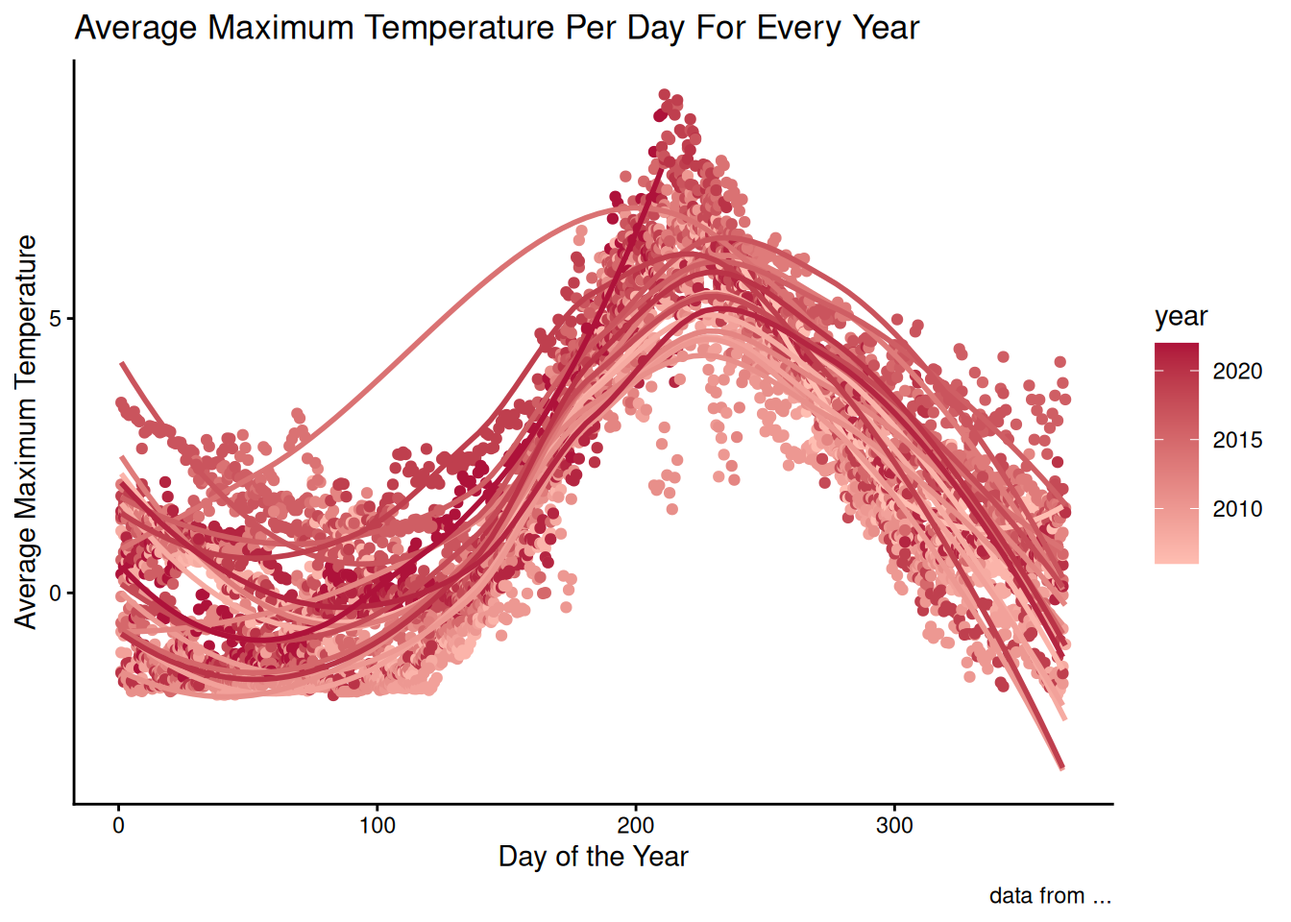
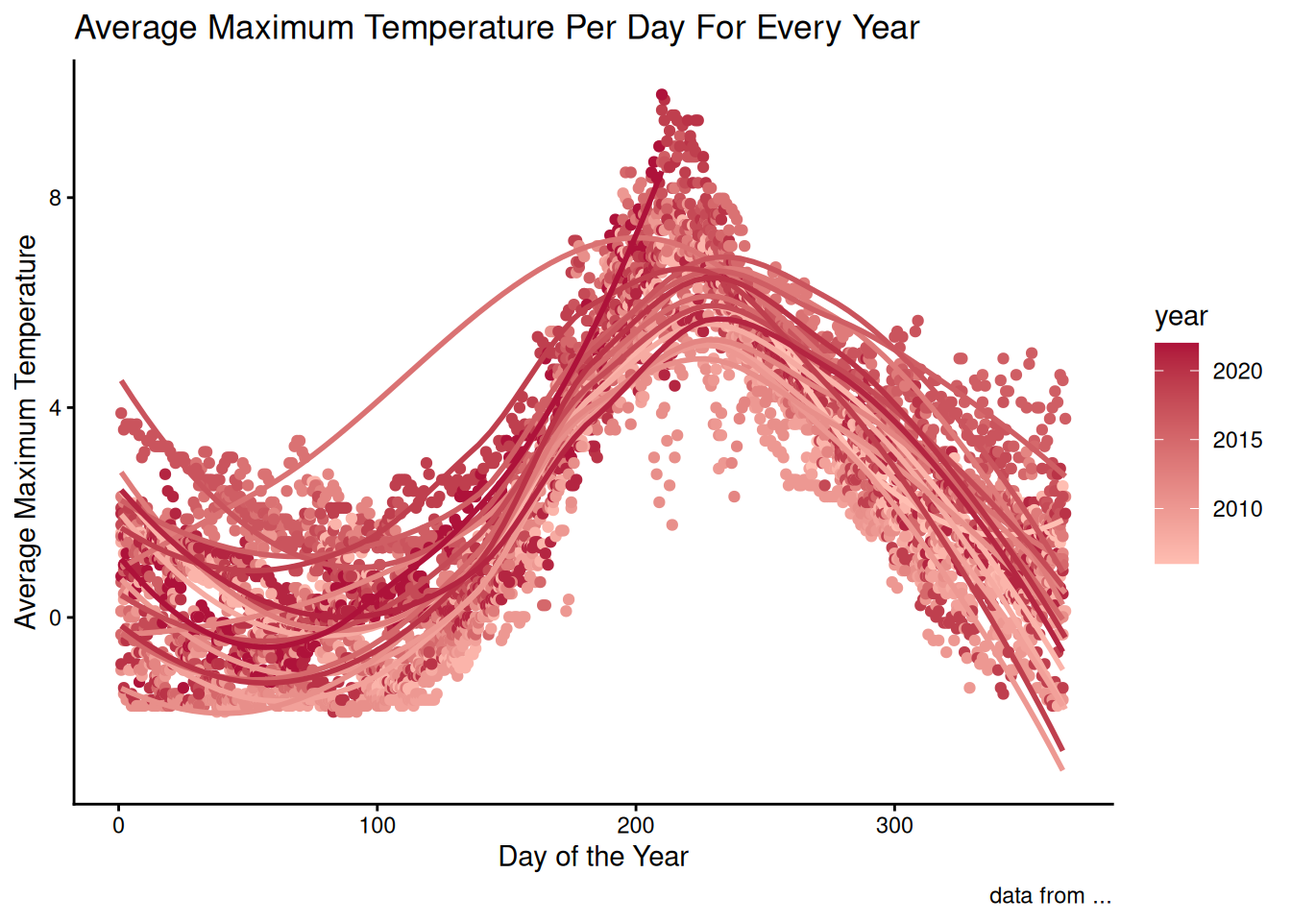
test

Changed region(s): [[0.0312, 0.0938, 0.8438, 0.8438], [0.0312, 0.1875, 0.0625, 0.2188]]

diff --git a/docs/posts/my_first_post/index.html b/docs/posts/my_first_post/index.html
@@ -222,69 +222,55 @@ pre > code.sourceCode > span > a:first-child::before { text-decoration: underlin
 <span id="cb3-9"><a href="#cb3-9" aria-hidden="true" tabindex="-1"></a>  <span class="fu">group_by</span>(Date) <span class="sc">|&gt;</span></span>
 <span id="cb3-10"><a href="#cb3-10" aria-hidden="true" tabindex="-1"></a>  <span class="fu">summarise</span>(</span>
 <span id="cb3-11"><a href="#cb3-11" aria-hidden="true" tabindex="-1"></a>    <span class="at">mean_temp =</span> <span class="fu">mean</span>(Temperature_C, <span class="at">na.rm =</span> <span class="cn">TRUE</span>),</span>
-<span id="cb3-12"><a href="#cb3-12" aria-hidden="true" tabindex="-1"></a>    <span class="co"># Max and min can happen here</span></span>
-<span id="cb3-13"><a href="#cb3-13" aria-hidden="true" tabindex="-1"></a>    <span class="at">min_temp =</span> <span class="fu">min</span>(mean_temp),</span>
-<span id="cb3-14"><a href="#cb3-14" aria-hidden="true" tabindex="-1"></a>    <span class="at">max_temp =</span> <span class="fu">max</span>(mean_temp)</span>
-<span id="cb3-15"><a href="#cb3-15" aria-hidden="true" tabindex="-1"></a>  ) </span>
-<span id="cb3-16"><a href="#cb3-16" aria-hidden="true" tabindex="-1"></a></span>
+<span id="cb3-12"><a href="#cb3-12" aria-hidden="true" tabindex="-1"></a>    <span class="at">min_temp =</span> <span class="fu">min</span>(Temperature_C),</span>
+<span id="cb3-13"><a href="#cb3-13" aria-hidden="true" tabindex="-1"></a>    <span class="at">max_temp =</span> <span class="fu">max</span>(Temperature_C)</span>
+<span id="cb3-14"><a href="#cb3-14" aria-hidden="true" tabindex="-1"></a>  ) </span>
+<span id="cb3-15"><a href="#cb3-15" aria-hidden="true" tabindex="-1"></a></span>
+<span id="cb3-16"><a href="#cb3-16" aria-hidden="true" tabindex="-1"></a>shallow_temps  <span class="ot">&lt;-</span> <span class="cn">NULL</span></span>
 <span id="cb3-17"><a href="#cb3-17" aria-hidden="true" tabindex="-1"></a></span>
-<span id="cb3-18"><a href="#cb3-18" aria-hidden="true" tabindex="-1"></a>shallow_temps  <span class="ot">&lt;-</span> <span class="cn">NULL</span></span>
-<span id="cb3-19"><a href="#cb3-19" aria-hidden="true" tabindex="-1"></a></span>
-<span id="cb3-20"><a href="#cb3-20" aria-hidden="true" tabindex="-1"></a></span>
-<span id="cb3-21"><a href="#cb3-21" aria-hidden="true" tabindex="-1"></a>daily_deep_temps <span class="ot">&lt;-</span> deep_temps <span class="sc">|&gt;</span></span>
-<span id="cb3-22"><a href="#cb3-22" aria-hidden="true" tabindex="-1"></a>  <span class="fu">group_by</span>(Date) <span class="sc">|&gt;</span></span>
-<span id="cb3-23"><a href="#cb3-23" aria-hidden="true" tabindex="-1"></a>  <span class="fu">summarise</span>(</span>
-<span id="cb3-24"><a href="#cb3-24" aria-hidden="true" tabindex="-1"></a>    <span class="at">mean_temp =</span> <span class="fu">mean</span>(Temperature_C, <span class="at">na.rm =</span> <span class="cn">TRUE</span>),</span>
-<span id="cb3-25"><a href="#cb3-25" aria-hidden="true" tabindex="-1"></a>    <span class="co"># min and max will go here eventually</span></span>
-<span id="cb3-26"><a href="#cb3-26" aria-hidden="true" tabindex="-1"></a>    <span class="at">min_temp_deep =</span> <span class="fu">min</span>(deep_temps<span class="sc">$</span>mean_temp),</span>
-<span id="cb3-27"><a href="#cb3-27" aria-hidden="true" tabindex="-1"></a>    <span class="at">max_temp_deep =</span> <span class="fu">max</span>(deep_temps<span class="sc">$</span>mean_temp)</span>
-<span id="cb3-28"><a href="#cb3-28" aria-hidden="true" tabindex="-1"></a>  )</span></code></pre></div><button title="Copy to Clipboard" class="code-copy-button"><i class="bi"></i></button></div>
-<div class="cell-output cell-output-stderr">
-<pre><code>Warning: There were 11324 warnings in `summarise()`.
-The first warning was:
-ℹ In argument: `min_temp_deep = min(deep_temps$mean_temp)`.
-ℹ In group 1: `Date = "01/01/2007"`.
-Caused by warning in `min()`:
-! no non-missing arguments to min; returning Inf
-ℹ Run `dplyr::last_dplyr_warnings()` to see the 11323 remaining warnings.</code></pre>
-</div>
-<div class="code-copy-outer-scaffold"><div class="sourceCode cell-code" id="cb5"><pre class="sourceCode r code-with-copy"><code class="sourceCode r"><span id="cb5-1"><a href="#cb5-1" aria-hidden="true" tabindex="-1"></a>deep_temps <span class="ot">&lt;-</span> <span class="cn">NULL</span></span>
-<span id="cb5-2"><a href="#cb5-2" aria-hidden="true" tabindex="-1"></a></span>
-<span id="cb5-3"><a href="#cb5-3" aria-hidden="true" tabindex="-1"></a></span>
-<span id="cb5-4"><a href="#cb5-4" aria-hidden="true" tabindex="-1"></a>daily_deep_temps<span class="ot">&lt;-</span> daily_deep_temps <span class="sc">|&gt;</span></span>
-<span id="cb5-5"><a href="#cb5-5" aria-hidden="true" tabindex="-1"></a>  <span class="fu">mutate</span>(</span>
-<span id="cb5-6"><a href="#cb5-6" aria-hidden="true" tabindex="-1"></a>    <span class="at">year =</span> <span class="fu">year</span>(<span class="fu">dmy</span>(Date)),</span>
-<span id="cb5-7"><a href="#cb5-7" aria-hidden="true" tabindex="-1"></a>    <span class="at">month =</span> <span class="fu">month</span>(<span class="fu">dmy</span>(Date)),</span>
-<span id="cb5-8"><a href="#cb5-8" aria-hidden="true" tabindex="-1"></a>    <span class="at">day =</span> <span class="fu">day</span>(<span class="fu">dmy</span>(Date)),</span>
-<span id="cb5-9"><a href="#cb5-9" aria-hidden="true" tabindex="-1"></a>    <span class="at">day_of_year =</span> <span class="fu">yday</span>(<span class="fu">dmy</span>(Date)))</span>
-<span id="cb5-10"><a href="#cb5-10" aria-hidden="true" tabindex="-1"></a></span>
-<span id="cb5-11"><a href="#cb5-11" aria-hidden="true" tabindex="-1"></a></span>
-<span id="cb5-12"><a href="#cb5-12" aria-hidden="true" tabindex="-1"></a>daily_shallow_temps<span class="ot">&lt;-</span> daily_shallow_temps <span class="sc">|&gt;</span></span>
-<span id="cb5-13"><a href="#cb5-13" aria-hidden="true" tabindex="-1"></a>  <span class="fu">mutate</span>(</span>
-<span id="cb5-14"><a href="#cb5-14" aria-hidden="true" tabindex="-1"></a>    <span class="at">year =</span> <span class="fu">year</span>(<span class="fu">dmy</span>(Date)),</span>
-<span id="cb5-15"><a href="#cb5-15" aria-hidden="true" tabindex="-1"></a>    <span class="at">month =</span> <span class="fu">month</span>(<span class="fu">dmy</span>(Date)),</span>
-<span id="cb5-16"><a href="#cb5-16" aria-hidden="true" tabindex="-1"></a>    <span class="at">day =</span> <span class="fu">day</span>(<span class="fu">dmy</span>(Date)),</span>
-<span id="cb5-17"><a href="#cb5-17" aria-hidden="true" tabindex="-1"></a>    <span class="at">day_of_year =</span> <span class="fu">yday</span>(<span class="fu">dmy</span>(Date))</span>
-<span id="cb5-18"><a href="#cb5-18" aria-hidden="true" tabindex="-1"></a>  )</span>
-<span id="cb5-19"><a href="#cb5-19" aria-hidden="true" tabindex="-1"></a></span>
-<span id="cb5-20"><a href="#cb5-20" aria-hidden="true" tabindex="-1"></a><span class="fu">ggplot</span>(</span>
-<span id="cb5-21"><a href="#cb5-21" aria-hidden="true" tabindex="-1"></a>  <span class="at">data =</span> daily_shallow_temps,</span>
-<span id="cb5-22"><a href="#cb5-22" aria-hidden="true" tabindex="-1"></a>  <span class="at">mapping =</span> <span class="fu">aes</span>(</span>
-<span id="cb5-23"><a href="#cb5-23" aria-hidden="true" tabindex="-1"></a>    <span class="at">y =</span> mean_temp, </span>
-<span id="cb5-24"><a href="#cb5-24" aria-hidden="true" tabindex="-1"></a>    <span class="at">x =</span> day_of_year, </span>
-<span id="cb5-25"><a href="#cb5-25" aria-hidden="true" tabindex="-1"></a>    <span class="at">group =</span> year, </span>
-<span id="cb5-26"><a href="#cb5-26" aria-hidden="true" tabindex="-1"></a>    <span class="at">color =</span> year</span>
-<span id="cb5-27"><a href="#cb5-27" aria-hidden="true" tabindex="-1"></a>    )</span>
-<span id="cb5-28"><a href="#cb5-28" aria-hidden="true" tabindex="-1"></a>  ) <span class="sc">+</span> </span>
-<span id="cb5-29"><a href="#cb5-29" aria-hidden="true" tabindex="-1"></a>    <span class="fu">geom_point</span>(<span class="at">alpha =</span> <span class="fl">0.25</span>) <span class="sc">+</span> </span>
-<span id="cb5-30"><a href="#cb5-30" aria-hidden="true" tabindex="-1"></a>    <span class="fu">geom_smooth</span>(<span class="at">se =</span> <span class="cn">FALSE</span>) <span class="sc">+</span> </span>
-<span id="cb5-31"><a href="#cb5-31" aria-hidden="true" tabindex="-1"></a>  <span class="fu">labs</span>(</span>
-<span id="cb5-32"><a href="#cb5-32" aria-hidden="true" tabindex="-1"></a>    <span class="at">x =</span> <span class="st">"Day of the Year"</span>,</span>
-<span id="cb5-33"><a href="#cb5-33" aria-hidden="true" tabindex="-1"></a>    <span class="at">y =</span> <span class="st">"Average Temperature"</span>,</span>
-<span id="cb5-34"><a href="#cb5-34" aria-hidden="true" tabindex="-1"></a>    <span class="at">title =</span> <span class="st">"Average Temperature Per Day For Every Year"</span>,</span>
-<span id="cb5-35"><a href="#cb5-35" aria-hidden="true" tabindex="-1"></a>    <span class="at">caption =</span> <span class="st">"data from ..."</span></span>
-<span id="cb5-36"><a href="#cb5-36" aria-hidden="true" tabindex="-1"></a>   ) <span class="sc">+</span> <span class="fu">scale_colour_continuous</span>(<span class="at">low =</span> <span class="st">"#FFBEB2"</span>, <span class="at">high =</span> <span class="st">"#AE123A"</span>) <span class="sc">+</span></span>
-<span id="cb5-37"><a href="#cb5-37" aria-hidden="true" tabindex="-1"></a>  <span class="fu">theme_classic</span>()</span></code></pre></div><button title="Copy to Clipboard" class="code-copy-button"><i class="bi"></i></button></div>
+<span id="cb3-18"><a href="#cb3-18" aria-hidden="true" tabindex="-1"></a>daily_deep_temps <span class="ot">&lt;-</span> deep_temps <span class="sc">|&gt;</span></span>
+<span id="cb3-19"><a href="#cb3-19" aria-hidden="true" tabindex="-1"></a>  <span class="fu">group_by</span>(Date) <span class="sc">|&gt;</span></span>
+<span id="cb3-20"><a href="#cb3-20" aria-hidden="true" tabindex="-1"></a>  <span class="fu">summarise</span>(</span>
+<span id="cb3-21"><a href="#cb3-21" aria-hidden="true" tabindex="-1"></a>    <span class="at">mean_temp =</span> <span class="fu">mean</span>(Temperature_C, <span class="at">na.rm =</span> <span class="cn">TRUE</span>),</span>
+<span id="cb3-22"><a href="#cb3-22" aria-hidden="true" tabindex="-1"></a>    <span class="at">min_temp_deep =</span> <span class="fu">min</span>(Temperature_C),</span>
+<span id="cb3-23"><a href="#cb3-23" aria-hidden="true" tabindex="-1"></a>    <span class="at">max_temp_deep =</span> <span class="fu">max</span>(Temperature_C)</span>
+<span id="cb3-24"><a href="#cb3-24" aria-hidden="true" tabindex="-1"></a>  )</span>
+<span id="cb3-25"><a href="#cb3-25" aria-hidden="true" tabindex="-1"></a>deep_temps <span class="ot">&lt;-</span> <span class="cn">NULL</span></span>
+<span id="cb3-26"><a href="#cb3-26" aria-hidden="true" tabindex="-1"></a></span>
+<span id="cb3-27"><a href="#cb3-27" aria-hidden="true" tabindex="-1"></a>daily_deep_temps<span class="ot">&lt;-</span> daily_deep_temps <span class="sc">|&gt;</span></span>
+<span id="cb3-28"><a href="#cb3-28" aria-hidden="true" tabindex="-1"></a>  <span class="fu">mutate</span>(</span>
+<span id="cb3-29"><a href="#cb3-29" aria-hidden="true" tabindex="-1"></a>    <span class="at">year =</span> <span class="fu">year</span>(<span class="fu">dmy</span>(Date)),</span>
+<span id="cb3-30"><a href="#cb3-30" aria-hidden="true" tabindex="-1"></a>    <span class="at">month =</span> <span class="fu">month</span>(<span class="fu">dmy</span>(Date)),</span>
+<span id="cb3-31"><a href="#cb3-31" aria-hidden="true" tabindex="-1"></a>    <span class="at">day =</span> <span class="fu">day</span>(<span class="fu">dmy</span>(Date)),</span>
+<span id="cb3-32"><a href="#cb3-32" aria-hidden="true" tabindex="-1"></a>    <span class="at">day_of_year =</span> <span class="fu">yday</span>(<span class="fu">dmy</span>(Date)))</span>
+<span id="cb3-33"><a href="#cb3-33" aria-hidden="true" tabindex="-1"></a></span>
+<span id="cb3-34"><a href="#cb3-34" aria-hidden="true" tabindex="-1"></a></span>
+<span id="cb3-35"><a href="#cb3-35" aria-hidden="true" tabindex="-1"></a>daily_shallow_temps<span class="ot">&lt;-</span> daily_shallow_temps <span class="sc">|&gt;</span></span>
+<span id="cb3-36"><a href="#cb3-36" aria-hidden="true" tabindex="-1"></a>  <span class="fu">mutate</span>(</span>
+<span id="cb3-37"><a href="#cb3-37" aria-hidden="true" tabindex="-1"></a>    <span class="at">year =</span> <span class="fu">year</span>(<span class="fu">dmy</span>(Date)),</span>
+<span id="cb3-38"><a href="#cb3-38" aria-hidden="true" tabindex="-1"></a>    <span class="at">month =</span> <span class="fu">month</span>(<span class="fu">dmy</span>(Date)),</span>
+<span id="cb3-39"><a href="#cb3-39" aria-hidden="true" tabindex="-1"></a>    <span class="at">day =</span> <span class="fu">day</span>(<span class="fu">dmy</span>(Date)),</span>
+<span id="cb3-40"><a href="#cb3-40" aria-hidden="true" tabindex="-1"></a>    <span class="at">day_of_year =</span> <span class="fu">yday</span>(<span class="fu">dmy</span>(Date))</span>
+<span id="cb3-41"><a href="#cb3-41" aria-hidden="true" tabindex="-1"></a>  )</span>
+<span id="cb3-42"><a href="#cb3-42" aria-hidden="true" tabindex="-1"></a></span>
+<span id="cb3-43"><a href="#cb3-43" aria-hidden="true" tabindex="-1"></a><span class="fu">ggplot</span>(</span>
+<span id="cb3-44"><a href="#cb3-44" aria-hidden="true" tabindex="-1"></a>  <span class="at">data =</span> daily_shallow_temps,</span>
+<span id="cb3-45"><a href="#cb3-45" aria-hidden="true" tabindex="-1"></a>  <span class="at">mapping =</span> <span class="fu">aes</span>(</span>
+<span id="cb3-46"><a href="#cb3-46" aria-hidden="true" tabindex="-1"></a>    <span class="at">y =</span> mean_temp, </span>
+<span id="cb3-47"><a href="#cb3-47" aria-hidden="true" tabindex="-1"></a>    <span class="at">x =</span> day_of_year, </span>
+<span id="cb3-48"><a href="#cb3-48" aria-hidden="true" tabindex="-1"></a>    <span class="at">group =</span> year, </span>
+<span id="cb3-49"><a href="#cb3-49" aria-hidden="true" tabindex="-1"></a>    <span class="at">color =</span> year</span>
+<span id="cb3-50"><a href="#cb3-50" aria-hidden="true" tabindex="-1"></a>    )</span>
+<span id="cb3-51"><a href="#cb3-51" aria-hidden="true" tabindex="-1"></a>  ) <span class="sc">+</span> </span>
+<span id="cb3-52"><a href="#cb3-52" aria-hidden="true" tabindex="-1"></a>    <span class="fu">geom_point</span>(<span class="at">alpha =</span> <span class="fl">0.25</span>) <span class="sc">+</span> </span>
+<span id="cb3-53"><a href="#cb3-53" aria-hidden="true" tabindex="-1"></a>    <span class="fu">geom_smooth</span>(<span class="at">se =</span> <span class="cn">FALSE</span>) <span class="sc">+</span> </span>
+<span id="cb3-54"><a href="#cb3-54" aria-hidden="true" tabindex="-1"></a>  <span class="fu">labs</span>(</span>
+<span id="cb3-55"><a href="#cb3-55" aria-hidden="true" tabindex="-1"></a>    <span class="at">x =</span> <span class="st">"Day of the Year"</span>,</span>
+<span id="cb3-56"><a href="#cb3-56" aria-hidden="true" tabindex="-1"></a>    <span class="at">y =</span> <span class="st">"Average Temperature"</span>,</span>
+<span id="cb3-57"><a href="#cb3-57" aria-hidden="true" tabindex="-1"></a>    <span class="at">title =</span> <span class="st">"Average Temperature Per Day For Every Year"</span>,</span>
+<span id="cb3-58"><a href="#cb3-58" aria-hidden="true" tabindex="-1"></a>    <span class="at">caption =</span> <span class="st">"data from ..."</span></span>
+<span id="cb3-59"><a href="#cb3-59" aria-hidden="true" tabindex="-1"></a>   ) <span class="sc">+</span> <span class="fu">scale_colour_continuous</span>(<span class="at">low =</span> <span class="st">"#FFBEB2"</span>, <span class="at">high =</span> <span class="st">"#AE123A"</span>) <span class="sc">+</span></span>
+<span id="cb3-60"><a href="#cb3-60" aria-hidden="true" tabindex="-1"></a>  <span class="fu">theme_classic</span>()</span></code></pre></div><button title="Copy to Clipboard" class="code-copy-button"><i class="bi"></i></button></div>
 <div class="cell-output cell-output-stderr">
 <pre><code>`geom_smooth()` using method = 'loess' and formula = 'y ~ x'</code></pre>
 </div>
@@ -297,23 +283,23 @@ Caused by warning in `min()`:
 </div>
 </div>
 <div class="cell">
-<div class="code-copy-outer-scaffold"><div class="sourceCode cell-code" id="cb7"><pre class="sourceCode r code-with-copy"><code class="sourceCode r"><span id="cb7-1"><a href="#cb7-1" aria-hidden="true" tabindex="-1"></a><span class="co">#Minimum Graph</span></span>
-<span id="cb7-2"><a href="#cb7-2" aria-hidden="true" tabindex="-1"></a></span>
-<span id="cb7-3"><a href="#cb7-3" aria-hidden="true" tabindex="-1"></a><span class="fu">ggplot</span>(<span class="at">data =</span> daily_shallow_temps,</span>
-<span id="cb7-4"><a href="#cb7-4" aria-hidden="true" tabindex="-1"></a>       <span class="at">mapping =</span> <span class="fu">aes</span>(</span>
-<span id="cb7-5"><a href="#cb7-5" aria-hidden="true" tabindex="-1"></a>         <span class="at">x =</span> day_of_year,</span>
-<span id="cb7-6"><a href="#cb7-6" aria-hidden="true" tabindex="-1"></a>         <span class="at">y =</span> min_temp,</span>
-<span id="cb7-7"><a href="#cb7-7" aria-hidden="true" tabindex="-1"></a>         <span class="at">group =</span> year,</span>
-<span id="cb7-8"><a href="#cb7-8" aria-hidden="true" tabindex="-1"></a>         <span class="at">color =</span> year)</span>
-<span id="cb7-9"><a href="#cb7-9" aria-hidden="true" tabindex="-1"></a>       ) <span class="sc">+</span><span class="fu">geom_point</span>() <span class="sc">+</span></span>
-<span id="cb7-10"><a href="#cb7-10" aria-hidden="true" tabindex="-1"></a>      <span class="fu">geom_smooth</span>(<span class="at">se =</span> <span class="cn">FALSE</span>)<span class="sc">+</span></span>
-<span id="cb7-11"><a href="#cb7-11" aria-hidden="true" tabindex="-1"></a>    <span class="fu">labs</span>(</span>
-<span id="cb7-12"><a href="#cb7-12" aria-hidden="true" tabindex="-1"></a>       <span class="at">x =</span> <span class="st">"Day of the Year"</span>,</span>
-<span id="cb7-13"><a href="#cb7-13" aria-hidden="true" tabindex="-1"></a>       <span class="at">y =</span> <span class="st">"Average Minimum Temperature"</span>,</span>
-<span id="cb7-14"><a href="#cb7-14" aria-hidden="true" tabindex="-1"></a>       <span class="at">title =</span> <span class="st">"Average Minimum Temperature Per Day For Every Year"</span>,</span>
-<span id="cb7-15"><a href="#cb7-15" aria-hidden="true" tabindex="-1"></a>      <span class="at">caption =</span> <span class="st">"data from ..."</span></span>
-<span id="cb7-16"><a href="#cb7-16" aria-hidden="true" tabindex="-1"></a>    )  <span class="sc">+</span> <span class="fu">scale_colour_continuous</span>(<span class="at">low =</span> <span class="st">"#FFBEB2"</span>, <span class="at">high =</span> <span class="st">"#AE123A"</span>) <span class="sc">+</span></span>
-<span id="cb7-17"><a href="#cb7-17" aria-hidden="true" tabindex="-1"></a>  <span class="fu">theme_classic</span>()</span></code></pre></div><button title="Copy to Clipboard" class="code-copy-button"><i class="bi"></i></button></div>
+<div class="code-copy-outer-scaffold"><div class="sourceCode cell-code" id="cb5"><pre class="sourceCode r code-with-copy"><code class="sourceCode r"><span id="cb5-1"><a href="#cb5-1" aria-hidden="true" tabindex="-1"></a><span class="co">#Minimum Graph</span></span>
+<span id="cb5-2"><a href="#cb5-2" aria-hidden="true" tabindex="-1"></a></span>
+<span id="cb5-3"><a href="#cb5-3" aria-hidden="true" tabindex="-1"></a><span class="fu">ggplot</span>(<span class="at">data =</span> daily_shallow_temps,</span>
+<span id="cb5-4"><a href="#cb5-4" aria-hidden="true" tabindex="-1"></a>       <span class="at">mapping =</span> <span class="fu">aes</span>(</span>
+<span id="cb5-5"><a href="#cb5-5" aria-hidden="true" tabindex="-1"></a>         <span class="at">x =</span> day_of_year,</span>
+<span id="cb5-6"><a href="#cb5-6" aria-hidden="true" tabindex="-1"></a>         <span class="at">y =</span> min_temp,</span>
+<span id="cb5-7"><a href="#cb5-7" aria-hidden="true" tabindex="-1"></a>         <span class="at">group =</span> year,</span>
+<span id="cb5-8"><a href="#cb5-8" aria-hidden="true" tabindex="-1"></a>         <span class="at">color =</span> year)</span>
+<span id="cb5-9"><a href="#cb5-9" aria-hidden="true" tabindex="-1"></a>       ) <span class="sc">+</span><span class="fu">geom_point</span>() <span class="sc">+</span></span>
+<span id="cb5-10"><a href="#cb5-10" aria-hidden="true" tabindex="-1"></a>      <span class="fu">geom_smooth</span>(<span class="at">se =</span> <span class="cn">FALSE</span>)<span class="sc">+</span></span>
+<span id="cb5-11"><a href="#cb5-11" aria-hidden="true" tabindex="-1"></a>    <span class="fu">labs</span>(</span>
+<span id="cb5-12"><a href="#cb5-12" aria-hidden="true" tabindex="-1"></a>       <span class="at">x =</span> <span class="st">"Day of the Year"</span>,</span>
+<span id="cb5-13"><a href="#cb5-13" aria-hidden="true" tabindex="-1"></a>       <span class="at">y =</span> <span class="st">"Average Minimum Temperature"</span>,</span>
+<span id="cb5-14"><a href="#cb5-14" aria-hidden="true" tabindex="-1"></a>       <span class="at">title =</span> <span class="st">"Average Minimum Temperature Per Day For Every Year"</span>,</span>
+<span id="cb5-15"><a href="#cb5-15" aria-hidden="true" tabindex="-1"></a>      <span class="at">caption =</span> <span class="st">"data from ..."</span></span>
+<span id="cb5-16"><a href="#cb5-16" aria-hidden="true" tabindex="-1"></a>    )  <span class="sc">+</span> <span class="fu">scale_colour_continuous</span>(<span class="at">low =</span> <span class="st">"#FFBEB2"</span>, <span class="at">high =</span> <span class="st">"#AE123A"</span>) <span class="sc">+</span></span>
+<span id="cb5-17"><a href="#cb5-17" aria-hidden="true" tabindex="-1"></a>  <span class="fu">theme_classic</span>()</span></code></pre></div><button title="Copy to Clipboard" class="code-copy-button"><i class="bi"></i></button></div>
 <div class="cell-output cell-output-stderr">
 <pre><code>`geom_smooth()` using method = 'loess' and formula = 'y ~ x'</code></pre>
 </div>
@@ -326,23 +312,23 @@ Caused by warning in `min()`:
 </div>
 </div>
 <div class="cell">
-<div class="code-copy-outer-scaffold"><div class="sourceCode cell-code" id="cb9"><pre class="sourceCode r code-with-copy"><code class="sourceCode r"><span id="cb9-1"><a href="#cb9-1" aria-hidden="true" tabindex="-1"></a><span class="co">#Max Graph</span></span>
-<span id="cb9-2"><a href="#cb9-2" aria-hidden="true" tabindex="-1"></a></span>
-<span id="cb9-3"><a href="#cb9-3" aria-hidden="true" tabindex="-1"></a><span class="fu">ggplot</span>(<span class="at">data =</span> daily_shallow_temps,</span>
-<span id="cb9-4"><a href="#cb9-4" aria-hidden="true" tabindex="-1"></a>       <span class="at">mapping =</span> <span class="fu">aes</span>(</span>
-<span id="cb9-5"><a href="#cb9-5" aria-hidden="true" tabindex="-1"></a>         <span class="at">x =</span> day_of_year,</span>
-<span id="cb9-6"><a href="#cb9-6" aria-hidden="true" tabindex="-1"></a>         <span class="at">y =</span> max_temp,</span>
-<span id="cb9-7"><a href="#cb9-7" aria-hidden="true" tabindex="-1"></a>         <span class="at">group =</span> year,</span>
-<span id="cb9-8"><a href="#cb9-8" aria-hidden="true" tabindex="-1"></a>         <span class="at">color =</span> year)</span>
-<span id="cb9-9"><a href="#cb9-9" aria-hidden="true" tabindex="-1"></a>) <span class="sc">+</span><span class="fu">geom_point</span>() <span class="sc">+</span></span>
-<span id="cb9-10"><a href="#cb9-10" aria-hidden="true" tabindex="-1"></a>  <span class="fu">geom_smooth</span>(<span class="at">se =</span> <span class="cn">FALSE</span>)<span class="sc">+</span></span>
-<span id="cb9-11"><a href="#cb9-11" aria-hidden="true" tabindex="-1"></a>  <span class="fu">labs</span>(</span>
-<span id="cb9-12"><a href="#cb9-12" aria-hidden="true" tabindex="-1"></a>    <span class="at">x =</span> <span class="st">"Day of the Year"</span>,</span>
-<span id="cb9-13"><a href="#cb9-13" aria-hidden="true" tabindex="-1"></a>    <span class="at">y =</span> <span class="st">"Average Maximum Temperature"</span>,</span>
-<span id="cb9-14"><a href="#cb9-14" aria-hidden="true" tabindex="-1"></a>    <span class="at">title =</span> <span class="st">"Average Maximum Temperature Per Day For Every Year"</span>,</span>
-<span id="cb9-15"><a href="#cb9-15" aria-hidden="true" tabindex="-1"></a>    <span class="at">caption =</span> <span class="st">"data from ..."</span></span>
-<span id="cb9-16"><a href="#cb9-16" aria-hidden="true" tabindex="-1"></a>  )  <span class="sc">+</span> <span class="fu">scale_colour_continuous</span>(<span class="at">low =</span> <span class="st">"#FFBEB2"</span>, <span class="at">high =</span> <span class="st">"#AE123A"</span>) <span class="sc">+</span></span>
-<span id="cb9-17"><a href="#cb9-17" aria-hidden="true" tabindex="-1"></a>  <span class="fu">theme_classic</span>()</span></code></pre></div><button title="Copy to Clipboard" class="code-copy-button"><i class="bi"></i></button></div>
+<div class="code-copy-outer-scaffold"><div class="sourceCode cell-code" id="cb7"><pre class="sourceCode r code-with-copy"><code class="sourceCode r"><span id="cb7-1"><a href="#cb7-1" aria-hidden="true" tabindex="-1"></a><span class="co">#Max Graph</span></span>
+<span id="cb7-2"><a href="#cb7-2" aria-hidden="true" tabindex="-1"></a></span>
+<span id="cb7-3"><a href="#cb7-3" aria-hidden="true" tabindex="-1"></a><span class="fu">ggplot</span>(<span class="at">data =</span> daily_shallow_temps,</span>
+<span id="cb7-4"><a href="#cb7-4" aria-hidden="true" tabindex="-1"></a>       <span class="at">mapping =</span> <span class="fu">aes</span>(</span>
+<span id="cb7-5"><a href="#cb7-5" aria-hidden="true" tabindex="-1"></a>         <span class="at">x =</span> day_of_year,</span>
+<span id="cb7-6"><a href="#cb7-6" aria-hidden="true" tabindex="-1"></a>         <span class="at">y =</span> max_temp,</span>
+<span id="cb7-7"><a href="#cb7-7" aria-hidden="true" tabindex="-1"></a>         <span class="at">group =</span> year,</span>
+<span id="cb7-8"><a href="#cb7-8" aria-hidden="true" tabindex="-1"></a>         <span class="at">color =</span> year)</span>
+<span id="cb7-9"><a href="#cb7-9" aria-hidden="true" tabindex="-1"></a>) <span class="sc">+</span><span class="fu">geom_point</span>() <span class="sc">+</span></span>
+<span id="cb7-10"><a href="#cb7-10" aria-hidden="true" tabindex="-1"></a>  <span class="fu">geom_smooth</span>(<span class="at">se =</span> <span class="cn">FALSE</span>)<span class="sc">+</span></span>
+<span id="cb7-11"><a href="#cb7-11" aria-hidden="true" tabindex="-1"></a>  <span class="fu">labs</span>(</span>
+<span id="cb7-12"><a href="#cb7-12" aria-hidden="true" tabindex="-1"></a>    <span class="at">x =</span> <span class="st">"Day of the Year"</span>,</span>
+<span id="cb7-13"><a href="#cb7-13" aria-hidden="true" tabindex="-1"></a>    <span class="at">y =</span> <span class="st">"Average Maximum Temperature"</span>,</span>
+<span id="cb7-14"><a href="#cb7-14" aria-hidden="true" tabindex="-1"></a>    <span class="at">title =</span> <span class="st">"Average Maximum Temperature Per Day For Every Year"</span>,</span>
+<span id="cb7-15"><a href="#cb7-15" aria-hidden="true" tabindex="-1"></a>    <span class="at">caption =</span> <span class="st">"data from ..."</span></span>
+<span id="cb7-16"><a href="#cb7-16" aria-hidden="true" tabindex="-1"></a>  )  <span class="sc">+</span> <span class="fu">scale_colour_continuous</span>(<span class="at">low =</span> <span class="st">"#FFBEB2"</span>, <span class="at">high =</span> <span class="st">"#AE123A"</span>) <span class="sc">+</span></span>
+<span id="cb7-17"><a href="#cb7-17" aria-hidden="true" tabindex="-1"></a>  <span class="fu">theme_classic</span>()</span></code></pre></div><button title="Copy to Clipboard" class="code-copy-button"><i class="bi"></i></button></div>
 <div class="cell-output cell-output-stderr">
 <pre><code>`geom_smooth()` using method = 'loess' and formula = 'y ~ x'</code></pre>
 </div>
@@ -355,24 +341,24 @@ Caused by warning in `min()`:
 </div>
 </div>
 <div class="cell">
-<div class="code-copy-outer-scaffold"><div class="sourceCode cell-code" id="cb11"><pre class="sourceCode r code-with-copy"><code class="sourceCode r"><span id="cb11-1"><a href="#cb11-1" aria-hidden="true" tabindex="-1"></a><span class="fu">ggplot</span>(</span>
-<span id="cb11-2"><a href="#cb11-2" aria-hidden="true" tabindex="-1"></a>  <span class="at">data =</span> daily_deep_temps,</span>
-<span id="cb11-3"><a href="#cb11-3" aria-hidden="true" tabindex="-1"></a>  <span class="at">mapping =</span> <span class="fu">aes</span>(</span>
-<span id="cb11-4"><a href="#cb11-4" aria-hidden="true" tabindex="-1"></a>    <span class="at">y =</span> mean_temp, </span>
-<span id="cb11-5"><a href="#cb11-5" aria-hidden="true" tabindex="-1"></a>    <span class="at">x =</span> day_of_year, </span>
-<span id="cb11-6"><a href="#cb11-6" aria-hidden="true" tabindex="-1"></a>    <span class="at">group =</span> year, </span>
-<span id="cb11-7"><a href="#cb11-7" aria-hidden="true" tabindex="-1"></a>    <span class="at">color =</span> year</span>
-<span id="cb11-8"><a href="#cb11-8" aria-hidden="true" tabindex="-1"></a>  )</span>
-<span id="cb11-9"><a href="#cb11-9" aria-hidden="true" tabindex="-1"></a>) <span class="sc">+</span> </span>
-<span id="cb11-10"><a href="#cb11-10" aria-hidden="true" tabindex="-1"></a>  <span class="fu">geom_point</span>(<span class="at">alpha =</span> <span class="fl">0.25</span>) <span class="sc">+</span> </span>
-<span id="cb11-11"><a href="#cb11-11" aria-hidden="true" tabindex="-1"></a>  <span class="fu">geom_smooth</span>(<span class="at">se =</span> <span class="cn">FALSE</span>) <span class="sc">+</span> </span>
-<span id="cb11-12"><a href="#cb11-12" aria-hidden="true" tabindex="-1"></a>  <span class="fu">labs</span>(</span>
-<span id="cb11-13"><a href="#cb11-13" aria-hidden="true" tabindex="-1"></a>    <span class="at">x =</span> <span class="st">"Day of the Year"</span>,</span>
-<span id="cb11-14"><a href="#cb11-14" aria-hidden="true" tabindex="-1"></a>    <span class="at">y =</span> <span class="st">"Average Temperature"</span>,</span>
-<span id="cb11-15"><a href="#cb11-15" aria-hidden="true" tabindex="-1"></a>    <span class="at">title =</span> <span class="st">"Average Temperature Per Day For Every Year"</span>,</span>
-<span id="cb11-16"><a href="#cb11-16" aria-hidden="true" tabindex="-1"></a>    <span class="at">caption =</span> <span class="st">"data from ..."</span></span>
-<span id="cb11-17"><a href="#cb11-17" aria-hidden="true" tabindex="-1"></a>  ) <span class="sc">+</span> <span class="fu">scale_colour_continuous</span>(<span class="at">low =</span> <span class="st">"#FFBEB2"</span>, <span class="at">high =</span> <span class="st">"#AE123A"</span>) <span class="sc">+</span></span>
-<span id="cb11-18"><a href="#cb11-18" aria-hidden="true" tabindex="-1"></a>  <span class="fu">theme_classic</span>()</span></code></pre></div><button title="Copy to Clipboard" class="code-copy-button"><i class="bi"></i></button></div>
+<div class="code-copy-outer-scaffold"><div class="sourceCode cell-code" id="cb9"><pre class="sourceCode r code-with-copy"><code class="sourceCode r"><span id="cb9-1"><a href="#cb9-1" aria-hidden="true" tabindex="-1"></a><span class="fu">ggplot</span>(</span>
+<span id="cb9-2"><a href="#cb9-2" aria-hidden="true" tabindex="-1"></a>  <span class="at">data =</span> daily_deep_temps,</span>
+<span id="cb9-3"><a href="#cb9-3" aria-hidden="true" tabindex="-1"></a>  <span class="at">mapping =</span> <span class="fu">aes</span>(</span>
+<span id="cb9-4"><a href="#cb9-4" aria-hidden="true" tabindex="-1"></a>    <span class="at">y =</span> mean_temp, </span>
+<span id="cb9-5"><a href="#cb9-5" aria-hidden="true" tabindex="-1"></a>    <span class="at">x =</span> day_of_year, </span>
+<span id="cb9-6"><a href="#cb9-6" aria-hidden="true" tabindex="-1"></a>    <span class="at">group =</span> year, </span>
+<span id="cb9-7"><a href="#cb9-7" aria-hidden="true" tabindex="-1"></a>    <span class="at">color =</span> year</span>
+<span id="cb9-8"><a href="#cb9-8" aria-hidden="true" tabindex="-1"></a>  )</span>
+<span id="cb9-9"><a href="#cb9-9" aria-hidden="true" tabindex="-1"></a>) <span class="sc">+</span> </span>
+<span id="cb9-10"><a href="#cb9-10" aria-hidden="true" tabindex="-1"></a>  <span class="fu">geom_point</span>(<span class="at">alpha =</span> <span class="fl">0.25</span>) <span class="sc">+</span> </span>
+<span id="cb9-11"><a href="#cb9-11" aria-hidden="true" tabindex="-1"></a>  <span class="fu">geom_smooth</span>(<span class="at">se =</span> <span class="cn">FALSE</span>) <span class="sc">+</span> </span>
+<span id="cb9-12"><a href="#cb9-12" aria-hidden="true" tabindex="-1"></a>  <span class="fu">labs</span>(</span>
+<span id="cb9-13"><a href="#cb9-13" aria-hidden="true" tabindex="-1"></a>    <span class="at">x =</span> <span class="st">"Day of the Year"</span>,</span>
+<span id="cb9-14"><a href="#cb9-14" aria-hidden="true" tabindex="-1"></a>    <span class="at">y =</span> <span class="st">"Average Temperature"</span>,</span>
+<span id="cb9-15"><a href="#cb9-15" aria-hidden="true" tabindex="-1"></a>    <span class="at">title =</span> <span class="st">"Average Temperature Per Day For Every Year"</span>,</span>
+<span id="cb9-16"><a href="#cb9-16" aria-hidden="true" tabindex="-1"></a>    <span class="at">caption =</span> <span class="st">"data from ..."</span></span>
+<span id="cb9-17"><a href="#cb9-17" aria-hidden="true" tabindex="-1"></a>  ) <span class="sc">+</span> <span class="fu">scale_colour_continuous</span>(<span class="at">low =</span> <span class="st">"#FFBEB2"</span>, <span class="at">high =</span> <span class="st">"#AE123A"</span>) <span class="sc">+</span></span>
+<span id="cb9-18"><a href="#cb9-18" aria-hidden="true" tabindex="-1"></a>  <span class="fu">theme_classic</span>()</span></code></pre></div><button title="Copy to Clipboard" class="code-copy-button"><i class="bi"></i></button></div>
 <div class="cell-output cell-output-stderr">
 <pre><code>`geom_smooth()` using method = 'loess' and formula = 'y ~ x'</code></pre>
 </div>
@@ -385,29 +371,25 @@ Caused by warning in `min()`:
 </div>
 </div>
 <div class="cell">
-<div class="code-copy-outer-scaffold"><div class="sourceCode cell-code" id="cb13"><pre class="sourceCode r code-with-copy"><code class="sourceCode r"><span id="cb13-1"><a href="#cb13-1" aria-hidden="true" tabindex="-1"></a><span class="co">#Minimum</span></span>
-<span id="cb13-2"><a href="#cb13-2" aria-hidden="true" tabindex="-1"></a></span>
-<span id="cb13-3"><a href="#cb13-3" aria-hidden="true" tabindex="-1"></a><span class="fu">ggplot</span>(<span class="at">data =</span> daily_deep_temps,</span>
-<span id="cb13-4"><a href="#cb13-4" aria-hidden="true" tabindex="-1"></a>       <span class="at">mapping =</span> <span class="fu">aes</span>(</span>
-<span id="cb13-5"><a href="#cb13-5" aria-hidden="true" tabindex="-1"></a>         <span class="at">x =</span> day_of_year,</span>
-<span id="cb13-6"><a href="#cb13-6" aria-hidden="true" tabindex="-1"></a>         <span class="at">y =</span> min_temp_deep,</span>
-<span id="cb13-7"><a href="#cb13-7" aria-hidden="true" tabindex="-1"></a>         <span class="at">group =</span> year,</span>
-<span id="cb13-8"><a href="#cb13-8" aria-hidden="true" tabindex="-1"></a>         <span class="at">color =</span> year)</span>
-<span id="cb13-9"><a href="#cb13-9" aria-hidden="true" tabindex="-1"></a>) <span class="sc">+</span><span class="fu">geom_point</span>() <span class="sc">+</span></span>
-<span id="cb13-10"><a href="#cb13-10" aria-hidden="true" tabindex="-1"></a>  <span class="fu">geom_smooth</span>(<span class="at">se =</span> <span class="cn">FALSE</span>)<span class="sc">+</span></span>
-<span id="cb13-11"><a href="#cb13-11" aria-hidden="true" tabindex="-1"></a>  <span class="fu">labs</span>(</span>
-<span id="cb13-12"><a href="#cb13-12" aria-hidden="true" tabindex="-1"></a>    <span class="at">x =</span> <span class="st">"Day of the Year"</span>,</span>
-<span id="cb13-13"><a href="#cb13-13" aria-hidden="true" tabindex="-1"></a>    <span class="at">y =</span> <span class="st">"Average Minimum Temperature"</span>,</span>
-<span id="cb13-14"><a href="#cb13-14" aria-hidden="true" tabindex="-1"></a>    <span class="at">title =</span> <span class="st">"Average Minimum Temperature Per Day For Every Year"</span>,</span>
-<span id="cb13-15"><a href="#cb13-15" aria-hidden="true" tabindex="-1"></a>    <span class="at">caption =</span> <span class="st">"data from ..."</span></span>
-<span id="cb13-16"><a href="#cb13-16" aria-hidden="true" tabindex="-1"></a>  )  <span class="sc">+</span> <span class="fu">scale_colour_continuous</span>(<span class="at">low =</span> <span class="st">"#FFBEB2"</span>, <span class="at">high =</span> <span class="st">"#AE123A"</span>) <span class="sc">+</span></span>
-<span id="cb13-17"><a href="#cb13-17" aria-hidden="true" tabindex="-1"></a>  <span class="fu">theme_classic</span>()</span></code></pre></div><button title="Copy to Clipboard" class="code-copy-button"><i class="bi"></i></button></div>
+<div class="code-copy-outer-scaffold"><div class="sourceCode cell-code" id="cb11"><pre class="sourceCode r code-with-copy"><code class="sourceCode r"><span id="cb11-1"><a href="#cb11-1" aria-hidden="true" tabindex="-1"></a><span class="co">#Minimum</span></span>
+<span id="cb11-2"><a href="#cb11-2" aria-hidden="true" tabindex="-1"></a></span>
+<span id="cb11-3"><a href="#cb11-3" aria-hidden="true" tabindex="-1"></a><span class="fu">ggplot</span>(<span class="at">data =</span> daily_deep_temps,</span>
+<span id="cb11-4"><a href="#cb11-4" aria-hidden="true" tabindex="-1"></a>       <span class="at">mapping =</span> <span class="fu">aes</span>(</span>
+<span id="cb11-5"><a href="#cb11-5" aria-hidden="true" tabindex="-1"></a>         <span class="at">x =</span> day_of_year,</span>
+<span id="cb11-6"><a href="#cb11-6" aria-hidden="true" tabindex="-1"></a>         <span class="at">y =</span> min_temp_deep,</span>
+<span id="cb11-7"><a href="#cb11-7" aria-hidden="true" tabindex="-1"></a>         <span class="at">group =</span> year,</span>
+<span id="cb11-8"><a href="#cb11-8" aria-hidden="true" tabindex="-1"></a>         <span class="at">color =</span> year)</span>
+<span id="cb11-9"><a href="#cb11-9" aria-hidden="true" tabindex="-1"></a>) <span class="sc">+</span><span class="fu">geom_point</span>() <span class="sc">+</span></span>
+<span id="cb11-10"><a href="#cb11-10" aria-hidden="true" tabindex="-1"></a>  <span class="fu">geom_smooth</span>(<span class="at">se =</span> <span class="cn">FALSE</span>)<span class="sc">+</span></span>
+<span id="cb11-11"><a href="#cb11-11" aria-hidden="true" tabindex="-1"></a>  <span class="fu">labs</span>(</span>
+<span id="cb11-12"><a href="#cb11-12" aria-hidden="true" tabindex="-1"></a>    <span class="at">x =</span> <span class="st">"Day of the Year"</span>,</span>
+<span id="cb11-13"><a href="#cb11-13" aria-hidden="true" tabindex="-1"></a>    <span class="at">y =</span> <span class="st">"Average Minimum Temperature"</span>,</span>
+<span id="cb11-14"><a href="#cb11-14" aria-hidden="true" tabindex="-1"></a>    <span class="at">title =</span> <span class="st">"Average Minimum Temperature Per Day For Every Year"</span>,</span>
+<span id="cb11-15"><a href="#cb11-15" aria-hidden="true" tabindex="-1"></a>    <span class="at">caption =</span> <span class="st">"data from ..."</span></span>
+<span id="cb11-16"><a href="#cb11-16" aria-hidden="true" tabindex="-1"></a>  )  <span class="sc">+</span> <span class="fu">scale_colour_continuous</span>(<span class="at">low =</span> <span class="st">"#FFBEB2"</span>, <span class="at">high =</span> <span class="st">"#AE123A"</span>) <span class="sc">+</span></span>
+<span id="cb11-17"><a href="#cb11-17" aria-hidden="true" tabindex="-1"></a>  <span class="fu">theme_classic</span>()</span></code></pre></div><button title="Copy to Clipboard" class="code-copy-button"><i class="bi"></i></button></div>
 <div class="cell-output cell-output-stderr">
 <pre><code>`geom_smooth()` using method = 'loess' and formula = 'y ~ x'</code></pre>
-</div>
-<div class="cell-output cell-output-stderr">
-<pre><code>Warning: Removed 5662 rows containing non-finite outside the scale range
-(`stat_smooth()`).</code></pre>
 </div>
 <div class="cell-output-display">
 <div>
@@ -418,23 +400,23 @@ Caused by warning in `min()`:
 </div>
 </div>
 <div class="cell">
-<div class="code-copy-outer-scaffold"><div class="sourceCode cell-code" id="cb16"><pre class="sourceCode r code-with-copy"><code class="sourceCode r"><span id="cb16-1"><a href="#cb16-1" aria-hidden="true" tabindex="-1"></a><span class="fu">ggplot</span>(<span class="at">data =</span> daily_deep_temps,</span>
-<span id="cb16-2"><a href="#cb16-2" aria-hidden="true" tabindex="-1"></a>       <span class="at">mapping =</span> <span class="fu">aes</span>(</span>
-<span id="cb16-3"><a href="#cb16-3" aria-hidden="true" tabindex="-1"></a>         <span class="at">x =</span> day_of_year,</span>
-<span id="cb16-4"><a href="#cb16-4" aria-hidden="true" tabindex="-1"></a>         <span class="at">y =</span> max_temp_deep)</span>
-<span id="cb16-5"><a href="#cb16-5" aria-hidden="true" tabindex="-1"></a>) <span class="sc">+</span> <span class="fu">geom_smooth</span>()<span class="sc">+</span></span>
-<span id="cb16-6"><a href="#cb16-6" aria-hidden="true" tabindex="-1"></a>  <span class="fu">labs</span>(</span>
-<span id="cb16-7"><a href="#cb16-7" aria-hidden="true" tabindex="-1"></a>    <span class="at">x =</span> <span class="st">"Day of the Year"</span>,</span>
-<span id="cb16-8"><a href="#cb16-8" aria-hidden="true" tabindex="-1"></a>    <span class="at">y =</span> <span class="st">"Average Temperature"</span>,</span>
-<span id="cb16-9"><a href="#cb16-9" aria-hidden="true" tabindex="-1"></a>    <span class="at">title =</span> <span class="st">"Average Temperature Per Day For Every Year"</span>,</span>
-<span id="cb16-10"><a href="#cb16-10" aria-hidden="true" tabindex="-1"></a>    <span class="at">caption =</span> <span class="st">"data from ..."</span></span>
-<span id="cb16-11"><a href="#cb16-11" aria-hidden="true" tabindex="-1"></a>  )</span></code></pre></div><button title="Copy to Clipboard" class="code-copy-button"><i class="bi"></i></button></div>
+<div class="code-copy-outer-scaffold"><div class="sourceCode cell-code" id="cb13"><pre class="sourceCode r code-with-copy"><code class="sourceCode r"><span id="cb13-1"><a href="#cb13-1" aria-hidden="true" tabindex="-1"></a><span class="fu">ggplot</span>(<span class="at">data =</span> daily_deep_temps,</span>
+<span id="cb13-2"><a href="#cb13-2" aria-hidden="true" tabindex="-1"></a>       <span class="at">mapping =</span> <span class="fu">aes</span>(</span>
+<span id="cb13-3"><a href="#cb13-3" aria-hidden="true" tabindex="-1"></a>         <span class="at">x =</span> day_of_year,</span>
+<span id="cb13-4"><a href="#cb13-4" aria-hidden="true" tabindex="-1"></a>         <span class="at">y =</span> max_temp_deep,</span>
+<span id="cb13-5"><a href="#cb13-5" aria-hidden="true" tabindex="-1"></a>         <span class="at">group =</span> year,</span>
+<span id="cb13-6"><a href="#cb13-6" aria-hidden="true" tabindex="-1"></a>         <span class="at">color =</span> year)</span>
+<span id="cb13-7"><a href="#cb13-7" aria-hidden="true" tabindex="-1"></a>) <span class="sc">+</span><span class="fu">geom_point</span>() <span class="sc">+</span></span>
+<span id="cb13-8"><a href="#cb13-8" aria-hidden="true" tabindex="-1"></a>  <span class="fu">geom_smooth</span>(<span class="at">se =</span> <span class="cn">FALSE</span>)<span class="sc">+</span></span>
+<span id="cb13-9"><a href="#cb13-9" aria-hidden="true" tabindex="-1"></a>  <span class="fu">labs</span>(</span>
+<span id="cb13-10"><a href="#cb13-10" aria-hidden="true" tabindex="-1"></a>    <span class="at">x =</span> <span class="st">"Day of the Year"</span>,</span>
+<span id="cb13-11"><a href="#cb13-11" aria-hidden="true" tabindex="-1"></a>    <span class="at">y =</span> <span class="st">"Average Maximum Temperature"</span>,</span>
+<span id="cb13-12"><a href="#cb13-12" aria-hidden="true" tabindex="-1"></a>    <span class="at">title =</span> <span class="st">"Average Maximum Temperature Per Day For Every Year"</span>,</span>
+<span id="cb13-13"><a href="#cb13-13" aria-hidden="true" tabindex="-1"></a>    <span class="at">caption =</span> <span class="st">"data from ..."</span></span>
+<span id="cb13-14"><a href="#cb13-14" aria-hidden="true" tabindex="-1"></a>  )  <span class="sc">+</span> <span class="fu">scale_colour_continuous</span>(<span class="at">low =</span> <span class="st">"#FFBEB2"</span>, <span class="at">high =</span> <span class="st">"#AE123A"</span>) <span class="sc">+</span></span>
+<span id="cb13-15"><a href="#cb13-15" aria-hidden="true" tabindex="-1"></a>  <span class="fu">theme_classic</span>()</span></code></pre></div><button title="Copy to Clipboard" class="code-copy-button"><i class="bi"></i></button></div>
 <div class="cell-output cell-output-stderr">
-<pre><code>`geom_smooth()` using method = 'gam' and formula = 'y ~ s(x, bs = "cs")'</code></pre>
-</div>
-<div class="cell-output cell-output-stderr">
-<pre><code>Warning: Removed 5662 rows containing non-finite outside the scale range
-(`stat_smooth()`).</code></pre>
+<pre><code>`geom_smooth()` using method = 'loess' and formula = 'y ~ x'</code></pre>
 </div>
 <div class="cell-output-display">
 <div>
@@ -444,10 +426,6 @@ Caused by warning in `min()`:
 </div>
 </div>
 </div>
-<ul>
-<li><p>Improve the color scale - and maybe make a bit of transparency for the smoothed line a well</p></li>
-<li><p>Also calculate min and max temps and make their own plots</p></li>
-</ul>
 
 
 

diff --git a/docs/index.html b/docs/index.html
@@ -208,7 +208,7 @@ window.Quarto = {
 
 <div class="quarto-listing quarto-listing-container-default" id="listing-listing">
 <div class="list quarto-listing-default">
-<div class="quarto-post image-right" data-index="0" data-categories="cHJvamVjdCUyQ2dlbmVyYWw=" data-listing-date-sort="1787184000000" data-listing-file-modified-sort="1787334209668" data-listing-date-modified-sort="NaN" data-listing-reading-time-sort="6" data-listing-word-count-sort="1048">
+<div class="quarto-post image-right" data-index="0" data-categories="cHJvamVjdCUyQ2dlbmVyYWw=" data-listing-date-sort="1787184000000" data-listing-file-modified-sort="1787335110028" data-listing-date-modified-sort="NaN" data-listing-reading-time-sort="6" data-listing-word-count-sort="1037">
 <div class="thumbnail"><a href="./posts/my_first_post/index.html" class="no-external">
 
 <p class="card-img-top"><img src="posts/my_first_post/index_files/figure-html/unnamed-chunk-1-1.png"  class="thumbnail-image card-img"/></p>
